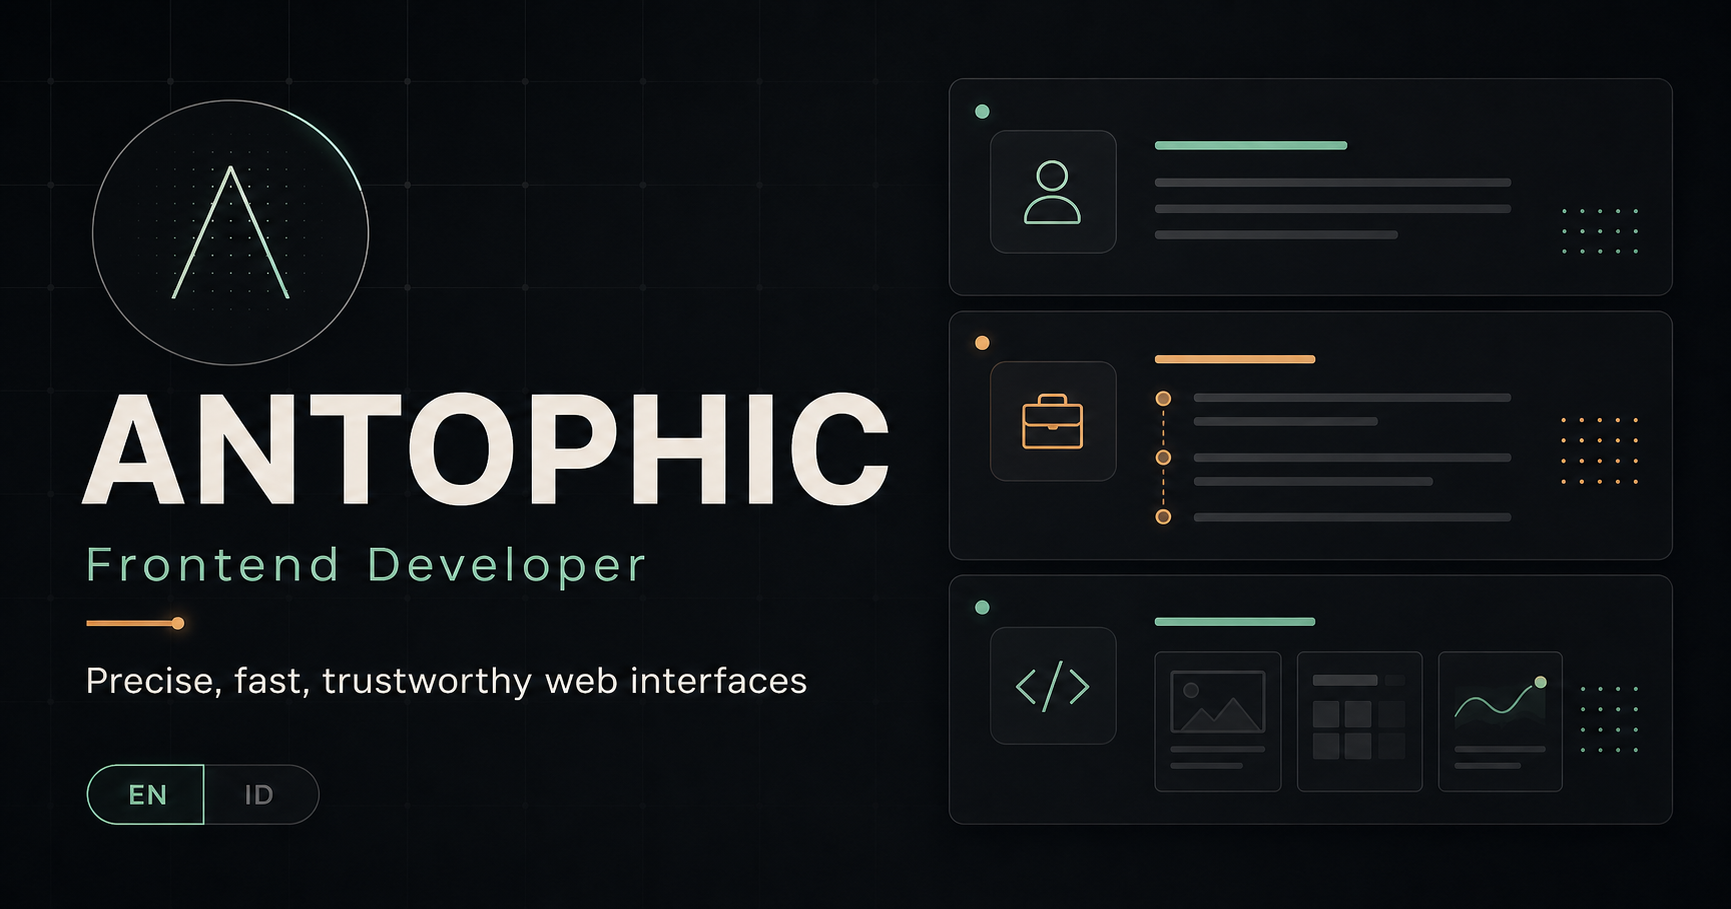
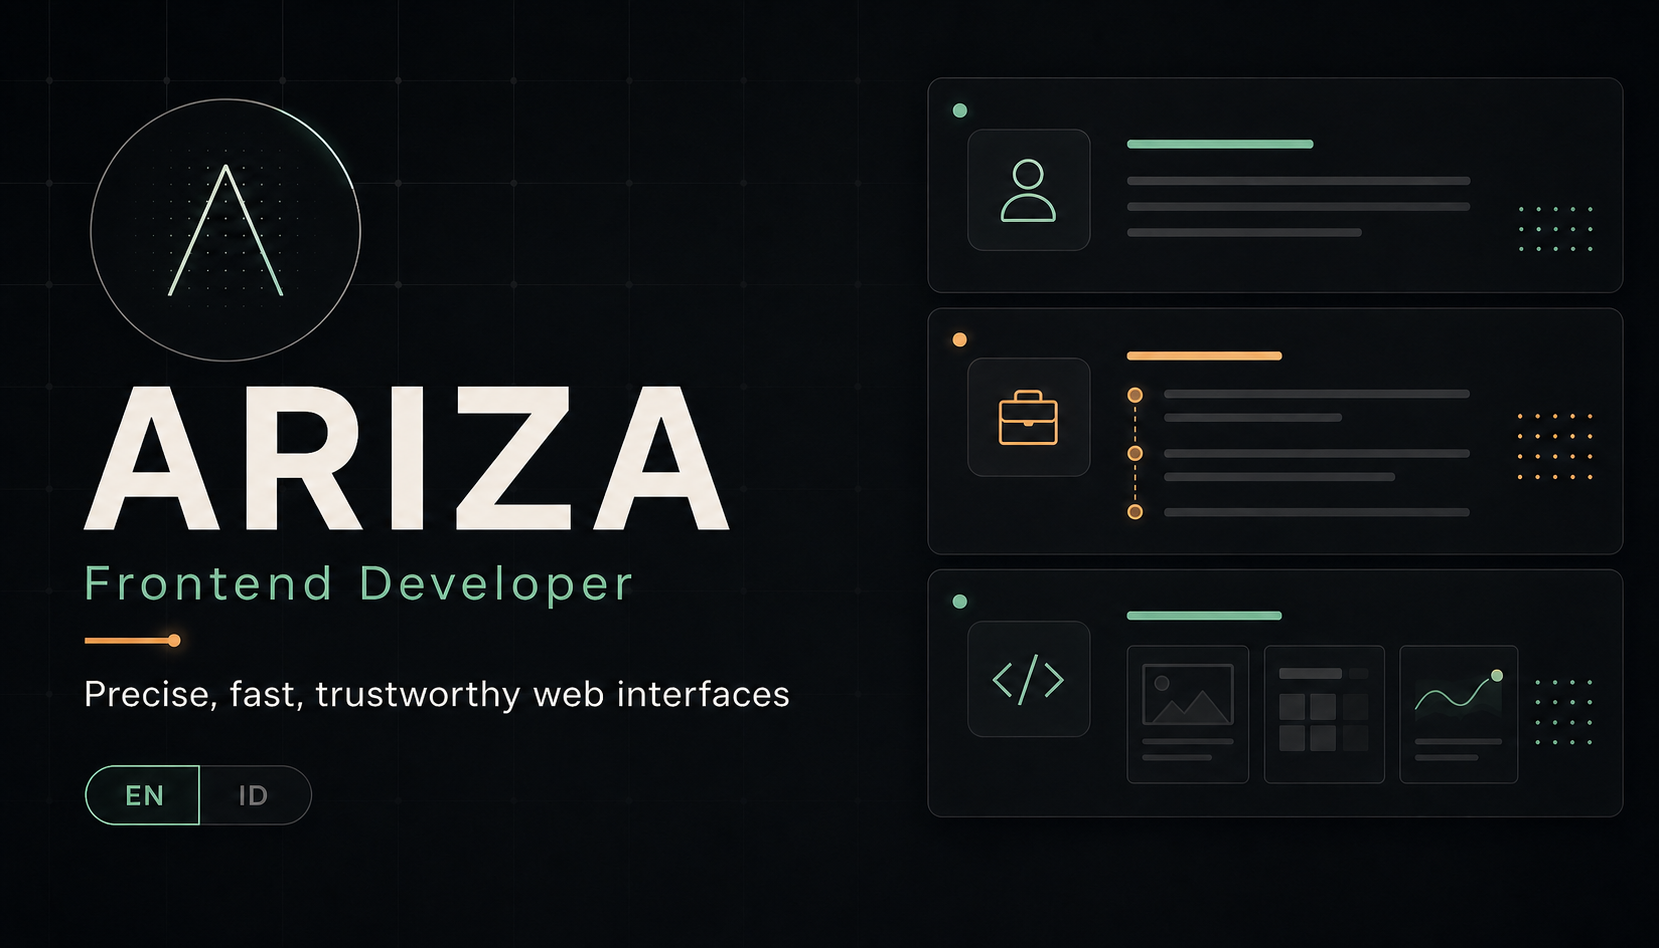
Add Ariza project log section

diff --git a/packages/portfolio-content/src/index.ts b/packages/portfolio-content/src/index.ts
@@ -1,11 +1,11 @@
 export const portfolio = {
-  name: "Antophic",
+  name: "Ariza",
   role: "Frontend Developer",
   specialty: "UI Engineering & Responsive Web",
   location: "Indonesia",
   avatar: "https://avatars.githubusercontent.com/u/245324916?v=4",
   description:
-    "Antophic is a frontend developer focused on accessible, polished, and maintainable web interfaces.",
+    "Ariza is a frontend developer focused on accessible, polished, and maintainable web interfaces.",
   contact: {
     email: "newcastlezzz900@gmail.com",
     href: "mailto:newcastlezzz900@gmail.com",
@@ -96,37 +96,71 @@ export const portfolio = {
       },
       projects: {
         kicker: "Projects",
-        title: "Selected work with a clear purpose.",
-        body: "Each project is framed around the problem, the interface decision, and the result it should create.",
+        title: "Projects I have worked on.",
+        body: "A dedicated place for personal builds, client websites, experiments, and every project that deserves to be presented clearly.",
         items: [
           {
-            title: "PulseBoard",
-            type: "Dashboard UI",
+            title: "Ariza Portfolio",
+            type: "Personal Website",
             year: "2026",
             summary:
-              "A compact progress dashboard designed for fast scanning, calm status indicators, and clear priority decisions.",
-            result: "Sharper visibility across active work.",
-            tags: ["React", "Data UI", "Responsive"],
+              "A bilingual portfolio website with a monorepo structure, scroll interactions, polished dark visuals, and content that stays easy to update.",
+            result: "A professional home for profile, skills, projects, and contact.",
+            tags: ["Next.js", "TypeScript", "Monorepo"],
           },
           {
-            title: "Nusa Landing System",
-            type: "Landing Page",
+            title: "Pustaka Banua Raya Website",
+            type: "Business Website",
             year: "2026",
             summary:
-              "A modular landing page structure for digital products with flexible copy sections and focused calls to action.",
-            result: "Easier to adjust messaging without breaking layout.",
-            tags: ["Next.js", "Copy Structure", "Layout"],
+              "A website foundation for a business domain, prepared so the brand can have a cleaner public presence and room to grow.",
+            result: "Clearer digital presence for a real-world business project.",
+            tags: ["Domain Setup", "Web Presence", "Hosting"],
           },
           {
-            title: "Repo Cleanup Kit",
-            type: "Developer Handoff",
+            title: "Project Showcase System",
+            type: "Portfolio Feature",
             year: "2026",
             summary:
-              "A repository setup pattern with separated content, concise docs, and predictable scripts for future edits.",
-            result: "Cleaner maintenance and faster continuation.",
-            tags: ["GitHub", "Docs", "Maintenance"],
+              "A structured project section built around title, category, status, role, summary, result, and stack so future work can be added neatly.",
+            result: "A cleaner place to document everything I build next.",
+            tags: ["Content Data", "Project Log", "Case Study"],
           },
         ],
+        projectLog: {
+          kicker: "Project Log",
+          title: "A clear place for every project I add next.",
+          body: "Each entry can show the project name, role, current status, short context, and the tools used.",
+          items: [
+            {
+              name: "Ariza Portfolio",
+              category: "Personal Portfolio",
+              status: "Live",
+              role: "Design + Frontend",
+              summary:
+                "A professional portfolio website with English and Indonesian copy, responsive layout, project sections, GitHub profile image, and polished scroll effects.",
+              stack: ["Next.js", "React", "TypeScript", "CSS"],
+            },
+            {
+              name: "Pustaka Banua Raya Website",
+              category: "Business Website",
+              status: "Planning",
+              role: "Website Setup",
+              summary:
+                "A business website project prepared around domain setup, hosting decisions, and a cleaner public-facing structure.",
+              stack: ["Domain", "Hosting", "Website Structure"],
+            },
+            {
+              name: "Next Project Slot",
+              category: "Open Entry",
+              status: "Ready",
+              role: "Project Documentation",
+              summary:
+                "A reserved entry for the next project, ready to be replaced with real work, links, stack, and a short result.",
+              stack: ["Project Notes", "Case Study", "Links"],
+            },
+          ],
+        },
       },
       skills: {
         kicker: "Skills",
@@ -255,37 +289,71 @@ export const portfolio = {
       },
       projects: {
         kicker: "Proyek",
-        title: "Karya pilihan dengan tujuan yang jelas.",
-        body: "Setiap project ditampilkan dari masalah, keputusan interface, dan hasil yang ingin dicapai.",
+        title: "Project yang pernah saya kerjakan.",
+        body: "Tempat khusus untuk menampilkan personal build, website klien, eksperimen, dan setiap project yang perlu dipresentasikan dengan jelas.",
         items: [
           {
-            title: "PulseBoard",
-            type: "Dashboard UI",
+            title: "Ariza Portfolio",
+            type: "Website Pribadi",
             year: "2026",
             summary:
-              "Dashboard progress ringkas untuk scanning cepat, indikator status yang tenang, dan keputusan prioritas yang jelas.",
-            result: "Visibilitas kerja aktif jadi lebih tajam.",
-            tags: ["React", "Data UI", "Responsive"],
+              "Website portfolio bilingual dengan struktur monorepo, efek scroll, visual dark yang rapi, dan konten yang mudah diperbarui.",
+            result: "Rumah profesional untuk profil, skill, project, dan kontak.",
+            tags: ["Next.js", "TypeScript", "Monorepo"],
           },
           {
-            title: "Nusa Landing System",
-            type: "Landing Page",
+            title: "Pustaka Banua Raya Website",
+            type: "Website Bisnis",
             year: "2026",
             summary:
-              "Struktur landing page modular untuk produk digital dengan section copy fleksibel dan call to action yang fokus.",
-            result: "Messaging mudah diubah tanpa merusak layout.",
-            tags: ["Next.js", "Copy Structure", "Layout"],
+              "Fondasi website untuk domain bisnis, disiapkan supaya brand punya tampilan publik yang lebih bersih dan bisa dikembangkan.",
+            result: "Digital presence yang lebih jelas untuk project bisnis nyata.",
+            tags: ["Domain Setup", "Web Presence", "Hosting"],
           },
           {
-            title: "Repo Cleanup Kit",
-            type: "Developer Handoff",
+            title: "Project Showcase System",
+            type: "Fitur Portfolio",
             year: "2026",
             summary:
-              "Pola setup repository dengan konten terpisah, dokumentasi ringkas, dan script yang mudah dipakai untuk edit berikutnya.",
-            result: "Maintenance lebih bersih dan mudah dilanjutkan.",
-            tags: ["GitHub", "Docs", "Maintenance"],
+              "Section project yang dibuat terstruktur dengan judul, kategori, status, role, ringkasan, hasil, dan stack agar project berikutnya mudah ditambahkan.",
+            result: "Tempat yang lebih rapi untuk mendokumentasikan semua karya berikutnya.",
+            tags: ["Content Data", "Project Log", "Case Study"],
           },
         ],
+        projectLog: {
+          kicker: "Project Log",
+          title: "Tempat jelas untuk setiap project yang saya tambahkan.",
+          body: "Setiap entry bisa menampilkan nama project, role, status, konteks singkat, dan tools yang digunakan.",
+          items: [
+            {
+              name: "Ariza Portfolio",
+              category: "Portfolio Pribadi",
+              status: "Live",
+              role: "Design + Frontend",
+              summary:
+                "Website portfolio profesional dengan copy English dan Indonesia, layout responsif, section project, foto profil GitHub, dan efek scroll yang halus.",
+              stack: ["Next.js", "React", "TypeScript", "CSS"],
+            },
+            {
+              name: "Pustaka Banua Raya Website",
+              category: "Website Bisnis",
+              status: "Planning",
+              role: "Website Setup",
+              summary:
+                "Project website bisnis yang disiapkan dari domain, keputusan hosting, dan struktur tampilan publik yang lebih rapi.",
+              stack: ["Domain", "Hosting", "Website Structure"],
+            },
+            {
+              name: "Next Project Slot",
+              category: "Entry Terbuka",
+              status: "Ready",
+              role: "Project Documentation",
+              summary:
+                "Slot untuk project berikutnya, siap diganti dengan karya nyata, link, stack, dan hasil singkat.",
+              stack: ["Project Notes", "Case Study", "Links"],
+            },
+          ],
+        },
       },
       skills: {
         kicker: "Skill",

diff --git a/apps/web/app/page.tsx b/apps/web/app/page.tsx
@@ -112,7 +112,7 @@ export default function Home() {
       />
 
       <header className={scrollProgress > 0.02 ? "topbar is-scrolled" : "topbar"} id="home">
-        <a className="brand-lockup" href="#home" aria-label="Antophic home">
+        <a className="brand-lockup" href="#home" aria-label={`${portfolio.name} home`}>
           <span className="brand-mark" aria-hidden="true">
             <Image
               alt=""
@@ -188,13 +188,13 @@ export default function Home() {
 
         <aside
           className="profile-panel"
-          aria-label="Antophic profile summary"
+          aria-label={`${portfolio.name} profile summary`}
           data-reveal="right"
           style={{ transitionDelay: "90ms" }}
         >
           <div className="profile-head">
             <Image
-              alt="GitHub profile avatar for Antophic"
+              alt={`GitHub profile avatar for ${portfolio.name}`}
               className="profile-avatar"
               height={96}
               src={portfolio.avatar}
@@ -328,6 +328,42 @@ export default function Home() {
               </div>
             </article>
           ))}
+        </div>
+
+        <div className="project-log" data-reveal>
+          <div className="project-log-heading">
+            <p className="section-kicker">{content.projects.projectLog.kicker}</p>
+            <h3>{content.projects.projectLog.title}</h3>
+            <p>{content.projects.projectLog.body}</p>
+          </div>
+
+          <div className="project-log-list">
+            {content.projects.projectLog.items.map((project, index) => (
+              <article
+                className="project-log-item"
+                data-reveal
+                key={project.name}
+                style={{ transitionDelay: `${index * 80}ms` }}
+              >
+                <div className="project-log-meta">
+                  <span>{project.category}</span>
+                  <strong>{project.status}</strong>
+                </div>
+                <div>
+                  <h3>{project.name}</h3>
+                  <p>{project.summary}</p>
+                </div>
+                <div className="project-log-role">
+                  <strong>{project.role}</strong>
+                  <div className="tag-list">
+                    {project.stack.map((tool) => (
+                      <span key={tool}>{tool}</span>
+                    ))}
+                  </div>
+                </div>
+              </article>
+            ))}
+          </div>
         </div>
       </section>
 

diff --git a/apps/web/app/globals.css b/apps/web/app/globals.css
@@ -639,6 +639,75 @@ h3 {
   line-height: 1.5;
 }
 
+.project-log {
+  border-top: 1px solid var(--line);
+  margin-top: 42px;
+  padding-top: 34px;
+}
+
+.project-log-heading {
+  max-width: 680px;
+}
+
+.project-log-heading h3 {
+  font-size: 1.55rem;
+}
+
+.project-log-heading p:not(.section-kicker) {
+  color: var(--muted);
+  line-height: 1.72;
+  margin: 12px 0 0;
+}
+
+.project-log-list {
+  display: grid;
+  gap: 12px;
+  margin-top: 24px;
+}
+
+.project-log-item {
+  background: rgba(255, 255, 255, 0.026);
+  border: 1px solid rgba(244, 239, 229, 0.1);
+  border-radius: 8px;
+  display: grid;
+  gap: 22px;
+  grid-template-columns: 0.62fr 1.12fr 0.86fr;
+  padding: 22px;
+  transition:
+    background 160ms ease,
+    border-color 160ms ease,
+    transform 160ms ease;
+}
+
+.project-log-item:hover {
+  background: rgba(255, 255, 255, 0.045);
+  border-color: rgba(123, 224, 195, 0.24);
+  transform: translateY(-2px);
+}
+
+.project-log-meta {
+  color: var(--muted);
+  display: grid;
+  font-family: var(--font-geist-mono), monospace;
+  font-size: 0.76rem;
+  font-weight: 800;
+  gap: 10px;
+  text-transform: uppercase;
+}
+
+.project-log-meta strong,
+.project-log-role strong {
+  color: var(--warm);
+  font-family: var(--font-geist-sans), Arial, Helvetica, sans-serif;
+  text-transform: none;
+}
+
+.project-log-item p {
+  color: var(--muted);
+  line-height: 1.72;
+  margin: 10px 0 0;
+}
+
 .tag-list {
   display: flex;
   flex-wrap: wrap;
@@ -773,7 +842,8 @@ h3 {
   }
 
   .experience-item,
-  .project-card {
+  .project-card,
+  .project-log-item {
     grid-template-columns: 1fr;
   }
 }
@@ -816,6 +886,7 @@ h3 {
   .profile-panel,
   .contact-band,
   .project-card,
+  .project-log-item,
   .experience-item {
     padding: 20px;
   }

diff --git a/README.md b/README.md
@@ -1,6 +1,6 @@
-# Antophic Portfolio
+# Ariza Portfolio
 
-Website portofolio personal untuk Antophic dengan struktur monorepo. Aplikasi
+Website portofolio personal untuk Ariza dengan struktur monorepo. Aplikasi
 web, konten portfolio, dan konfigurasi utama dipisah supaya lebih rapi dan
 gampang dikembangkan.
 
@@ -28,6 +28,7 @@ Edit file `packages/portfolio-content/src/index.ts` untuk mengganti:
 - daftar kelebihan
 - daftar skill
 - daftar project
+- project log untuk menampilkan project yang sedang/pernah dikerjakan
 - alur kerja
 
 Layout dan style utama ada di:
